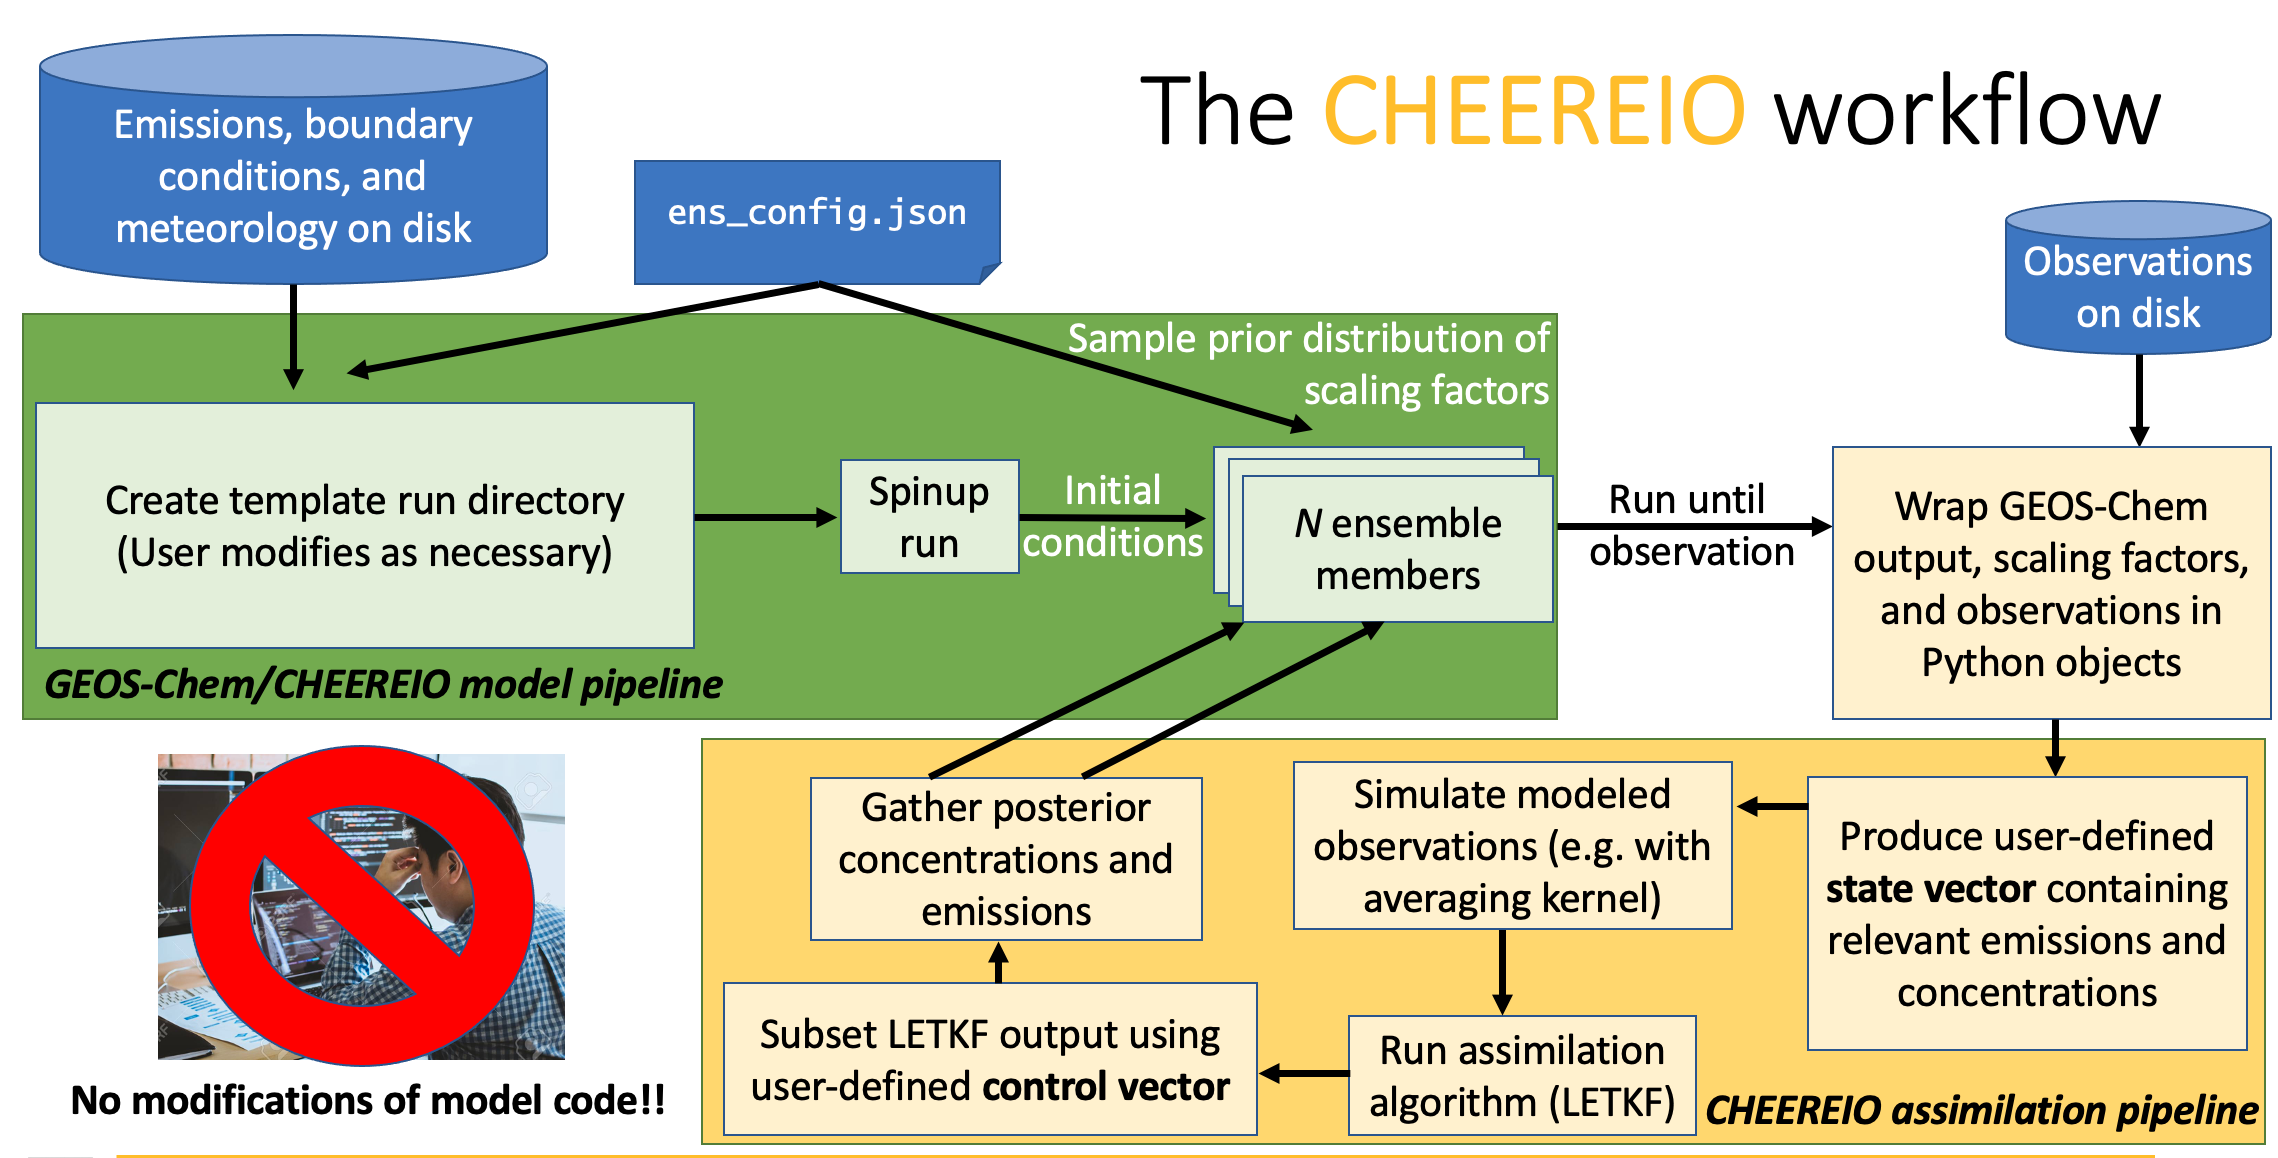
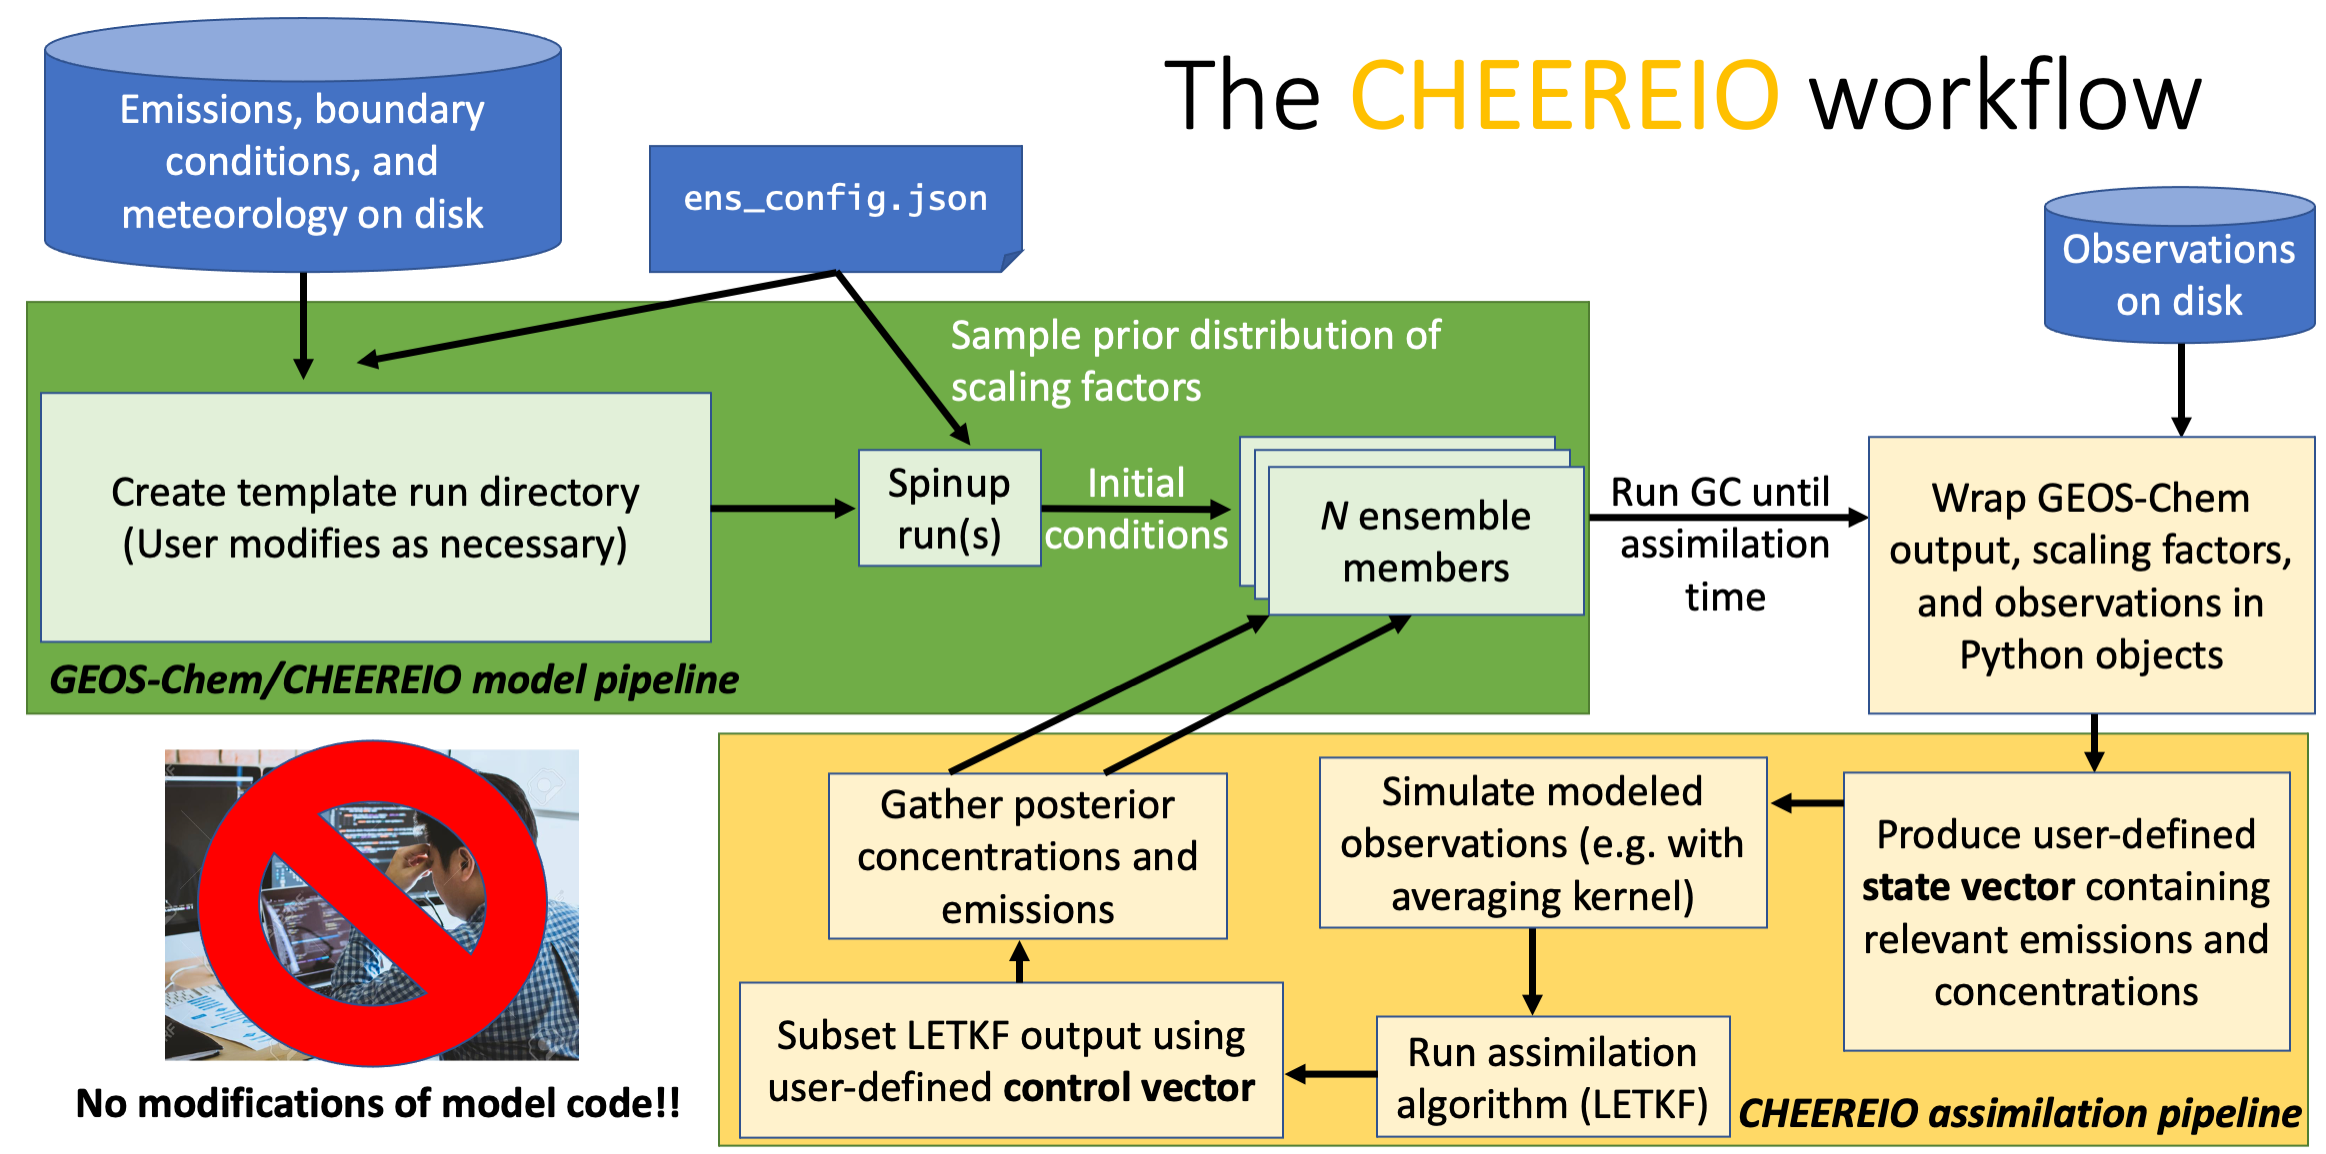
Update index and about pages of documentation

diff --git a/docs/About-CHEEREIO.rst b/docs/About-CHEEREIO.rst
@@ -4,16 +4,20 @@ About CHEEREIO
 What CHEEREIO is
 -------------
 
-The CHEmistry and Emissions REanalysis Interface with Observations (CHEEREIO) is a package that wraps the `GEOS-Chem <https://github.com/geoschem>`__ chemical transport model source code. After a simple modification of a single configuration file (``ens_config.json``), CHEEREIO automatically produces and compiles a template GEOS-Chem run directory, which it then copies into an ensemble. Each ensemble member comes with a randomized set of gridded emissions scaling factors for species specified by the user. As the ensemble of runs progresses, CHEEREIO will periodically pause the ensemble, compare with a set of observations (i.e. satellite, surface, and/or aircraft), and update relevant emissions scaling factors and chemical concentrations to best match reality given the uncertainties of measurements and model. CHEEREIO calculates this update via the 4D Asynchronous Localized Ensemble Transform Kalman Filter (4D-LETKF) as described in `Hunt. et. al., [2007] <https://doi.org/10.1016/j.physd.2006.11.008>`__. Because this approach is model agnostic (specifically, it does not rely on the adjoint), CHEEREIO supports emissions updates and chemical concentration corrections for arbitrary configurations of the GEOS-Chem model. However, the current CHEEREIO codebase assumes that GEOS-Chem code is version 13.0.0 or later.
+The CHEmistry and Emissions REanalysis Interface with Observations (CHEEREIO) is a package that wraps the `GEOS-Chem <https://github.com/geoschem>`__ chemical transport model source code. After a simple modification of a single configuration file (``ens_config.json``), CHEEREIO automatically produces and compiles an ensemble of GEOS-Chem run directories. Each ensemble member comes with a randomized set of gridded emissions scaling factors, drawn from a prior distribution reflecting emissions uncertainties, for the set of species specified by the user. As the ensemble of runs progresses, CHEEREIO will periodically pause the ensemble, compare with a set of observations (i.e. satellite, surface, and/or aircraft), and update relevant emissions scaling factors and chemical concentrations to best match reality given the uncertainties of measurements and model. CHEEREIO calculates this update via the 4D Asynchronous Localized Ensemble Transform Kalman Filter (4D-LETKF) as described in `Hunt. et. al., [2007] <https://doi.org/10.1016/j.physd.2006.11.008>`__. Because this approach is model agnostic (specifically, it does not rely on the adjoint), CHEEREIO supports emissions updates and chemical concentration corrections for arbitrary configurations of the GEOS-Chem model. However, the current CHEEREIO codebase assumes that GEOS-Chem code is version 13.0.0 or later.
 
 An overview of the CHEEREIO workflow
 -----------------------------
 
-The CHEEREIO workflow is described in detail throughout this documentation, but here is a brief overview divided into two main parts: **installation** time and **run** time.
+The CHEEREIO workflow is described in detail throughout this documentation, but here is a brief overview divided into four main parts: **installation** time, **spinup** time, **run** time, and **postprocess** time.
 
-**Installation time.** First, the user creates a template run directory by executing a script related to the setup procedure in GEOS-Chem version 13. Any modifications to the template directory should happen at this point, as these changes will be reflected across all ensemble members. Note that this run directory has a few slightly different features from the standard run directory to allow CHEEREIO to hook in and modify files on the fly. Users should carefully read the documentation before changing something they find odd in the template run directory. Next, the user compiles the template run directory, either according to their preferences or by following the base procedure in the CHEEREIO setup script. Then a spinup directory can be generated and run if the user wants to do spinup within the CHEEREIO environment. Alternatively, the user can  supply an already spun-up restart file. Finally, the ensemble is installed; many copies of the template run directory are made and will be run in parallel. The default ensemble size is 32 but the user is free to run ensembles of any size. All files are installed in a user-specified CHEEREIO ensemble directory which is distinct from the directory that stores the core CHEEREIO scripts.
+**Installation time.** First, the user creates a template run directory by executing a script related to the setup procedure in GEOS-Chem version 13, ``setup_ensemble.sh``, with the variable ``SetupTemplateRundir`` set to ``true``. All ensemble members follow the template run directory. Any modifications to the template directory should happen at this point in the installation process, as changes to the template will be reflected across all ensemble members. Note that this run directory has a few slightly different features from the standard run directory to allow CHEEREIO to hook in and modify files on the fly. Users should carefully read the documentation before changing something they find odd in the template run directory. Next, the user compiles the template run directory, either according to their preferences or by following the base procedure in the CHEEREIO setup script (called by setting the variable ``CompileTemplateRundir`` to ``true`` in ``setup_ensemble.sh``).
 
-**Run time.** The user navigates to the ensemble_runs folder in the CHEEREIO ensemble directory and executes the ``run_ens.sh`` script. This allocates a job for each of the ensemble members and starts GEOS-Chem in each. After one assimilation period completes, then GEOS-Chem halts and the CHEEREIO assimilation routine is called. Each column is assimilated in parallel, with intermediate outputs stored in the scratch folder. After each column is complete, CHEEREIO gathers the data from scratch and overwrites the GEOS-Chem restarts and scaling factors in each ensemble run directory folder. From here, GEOS-Chem is called and runs for another assimilation period. CHEEREIO will then rinse and repeat until the period of interest has been processed.
+**Spinup time** There are two separate kinds of model spinup in the CHEEREIO environment. The first kind is the standard form of GEOS-Chem model spinup. By setting ``SetupSpinupRun`` to ``true`` in ``setup_ensemble.sh`` a standard GEOS-Chem run directory is created where spinup can be done for all ensemble members. The restart saved out at the end of the simulation will be automatically linked in each of the ensemble run directories. Alternatively, the user can supply an already spun-up restart file. The second kind of spinup is unique to CHEEREIO, but before it can be executed the ensemble run directories must be installed, a process executed when the user sets ``SetupEnsembleRuns`` to ``true`` in ``setup_ensemble.sh``. This process will make many copies of the template run directory to be executed in parallel at run time. The default ensemble size is 32 but the user is free to run ensembles of any size. All files are installed in a user-specified CHEEREIO ensemble directory which is distinct from the directory that stores the core CHEEREIO scripts. Once this installation is complete, the user can execute the ensemble spinup. There are two ways to do this, which will be explored later in the documentation, but the basic idea is that each ensemble directory is run for a period of time with its randomized set of emissions scaling factors applied. This creates a diversity of atmospheric concentrations across model runs, which is necessary for the 4D-LETKF statistical method to work properly.
+
+**Run time.** Once installation and spinup are complete, the user navigates to the ensemble_runs folder in the CHEEREIO ensemble directory and executes the ``run_ens.sh`` script. This allocates a job for each of the ensemble members and starts GEOS-Chem in each. After one assimilation period completes, then GEOS-Chem halts and the CHEEREIO assimilation routine is called. Each column is assimilated in parallel, with intermediate outputs stored in the scratch folder. After each column is complete, CHEEREIO gathers the data from scratch and overwrites the GEOS-Chem restarts and scaling factors in each ensemble run directory folder. From here, GEOS-Chem is called and runs for another assimilation period. CHEEREIO will then rinse and repeat until the period of interest has been simulated.
+
+**Postprocess time.** Once the ensemble run is complete, users have access to a variety of tools and pre-built workflows in the ``postprocess/`` folder of the main CHEEREIO code directory. In particular, the SLURM batch script ``postprocess_prep.batch`` will automatically create a variety of figures, movies, and consolidated data files that the user can then view and modify. The folder also includes an API of useful functions in the ``postprocess_tools.py`` file.
 
 .. image:: cheereio_workflow.png
   :width: 600
@@ -36,4 +40,10 @@ One way to think about this is that the ensemble emulates the error matrix for t
 Further reading
 -----------------------------
 
-LETKF comes from the rich tradition of data assimilation, and there is far more to it than can be described in this documentation. The 4D-LETKF algorithm was first described in `Hunt. et. al., [2007] <https://doi.org/10.1016/j.physd.2006.11.008>`__, which includes a detailed step-by-step description of how one might implement the computation. For a painfully detailed slide deck giving a crash course in data assimilation, linking LETKF with other methods (3DVAR, 4DVAR, EnKF, etc.) email me (pendergrass [AT] g [DOT] harvard [DOT] edu) and I will send it along. Those notes were developed from a variety of sources, including `Data Assimilation: Methods, Algorithms, and Applications <https://doi.org/10.1137/1.9781611974546>`__ by Asch, Bocquet, and Nodet and the `ECMWF's lecture notes <https://www.ecmwf.int/en/learning/education-material/lecture-notes>`__. `Kazuyuki Miyazaki <https://science.jpl.nasa.gov/people/Miyazaki/>`__ at the Jet Propulsion Laboratory pioneered the use of LETKF for chemical data assimilation, and his papers are extremely valuable in understanding this rapidly developing field.
+LETKF comes from the rich tradition of data assimilation, and there is far more to it than can be described in this documentation. The 4D-LETKF algorithm was first described in `Hunt. et. al., [2007] <https://doi.org/10.1016/j.physd.2006.11.008>`__, which includes a detailed step-by-step description of how one might implement the computation. You can download a painfully detailed slide deck I made in 2021 that gives a crash course in data assimilation, linking LETKF with other methods (3DVAR, 4DVAR, EnKF, etc.), at `this link <http://drewpendergrass.com/online_data_assimilation_crash_course.pptx>`__. One slide from that Those notes were developed from a variety of sources, including `Data Assimilation: Methods, Algorithms, and Applications <https://doi.org/10.1137/1.9781611974546>`__ by Asch, Bocquet, and Nodet and the `ECMWF's lecture notes <https://www.ecmwf.int/en/learning/education-material/lecture-notes>`__. `Kazuyuki Miyazaki <https://science.jpl.nasa.gov/people/Miyazaki/>`__ at the Jet Propulsion Laboratory pioneered the use of LETKF for chemical data assimilation, and his papers are extremely valuable in understanding this rapidly developing field.
+
+To whet your appetite for the LETKF algorithm, below is a diagram of the matrices formed in the process of the assimilation computation. Some aspects of this, particularly the distinction between a control and state vector, will be discussed later in the documention. But the details of the mathematics are left to the `Hunt. et. al., [2007] <https://doi.org/10.1016/j.physd.2006.11.008>`__ paper.
+
+.. image:: letkf_diagram.png
+  :width: 600
+  :alt: Figure demonstrating visually the matrices and calculations performed in the LETKF process. 

diff --git a/docs/index.rst b/docs/index.rst
@@ -13,8 +13,8 @@ The GEOS-Chem CHEmistry and Emissions REanalysis Interface with Observations (CH
 #. **Easy to customize**: Assimilate anything, in any GEOS-Chem configuration or simulation.
 #. **Easy to maintain**: Science automatically aligned with latest model version.
 #. **Easy to deploy**: One configuration file controls installation and settings
-#. **Easy to link observations**: Object-oriented observation operator implementation allows the user to rapidly add new kinds of data with minimal programming required.
-#. **Quick to run**: Wall runtime should be no more than 2x longer than vanilla GEOS-Chem (4D-Var limit) assuming resources are available.
+#. **Easy to link observations**: Object-oriented observation operator implementation in Python allows the user to rapidly add new kinds of data with minimal programming required.
+#. **Quick to run**: Wall runtime should be comparable to vanilla GEOS-Chem assuming resources are available.
 
 This manual assumes that you are familiar with the basics of setting up and running the GEOS-Chem chemical transport model. For more information, please see the `GEOS-Chem Wiki <http://wiki.seas.harvard.edu/geos-chem/index.php/Main_Page>`__.
 
